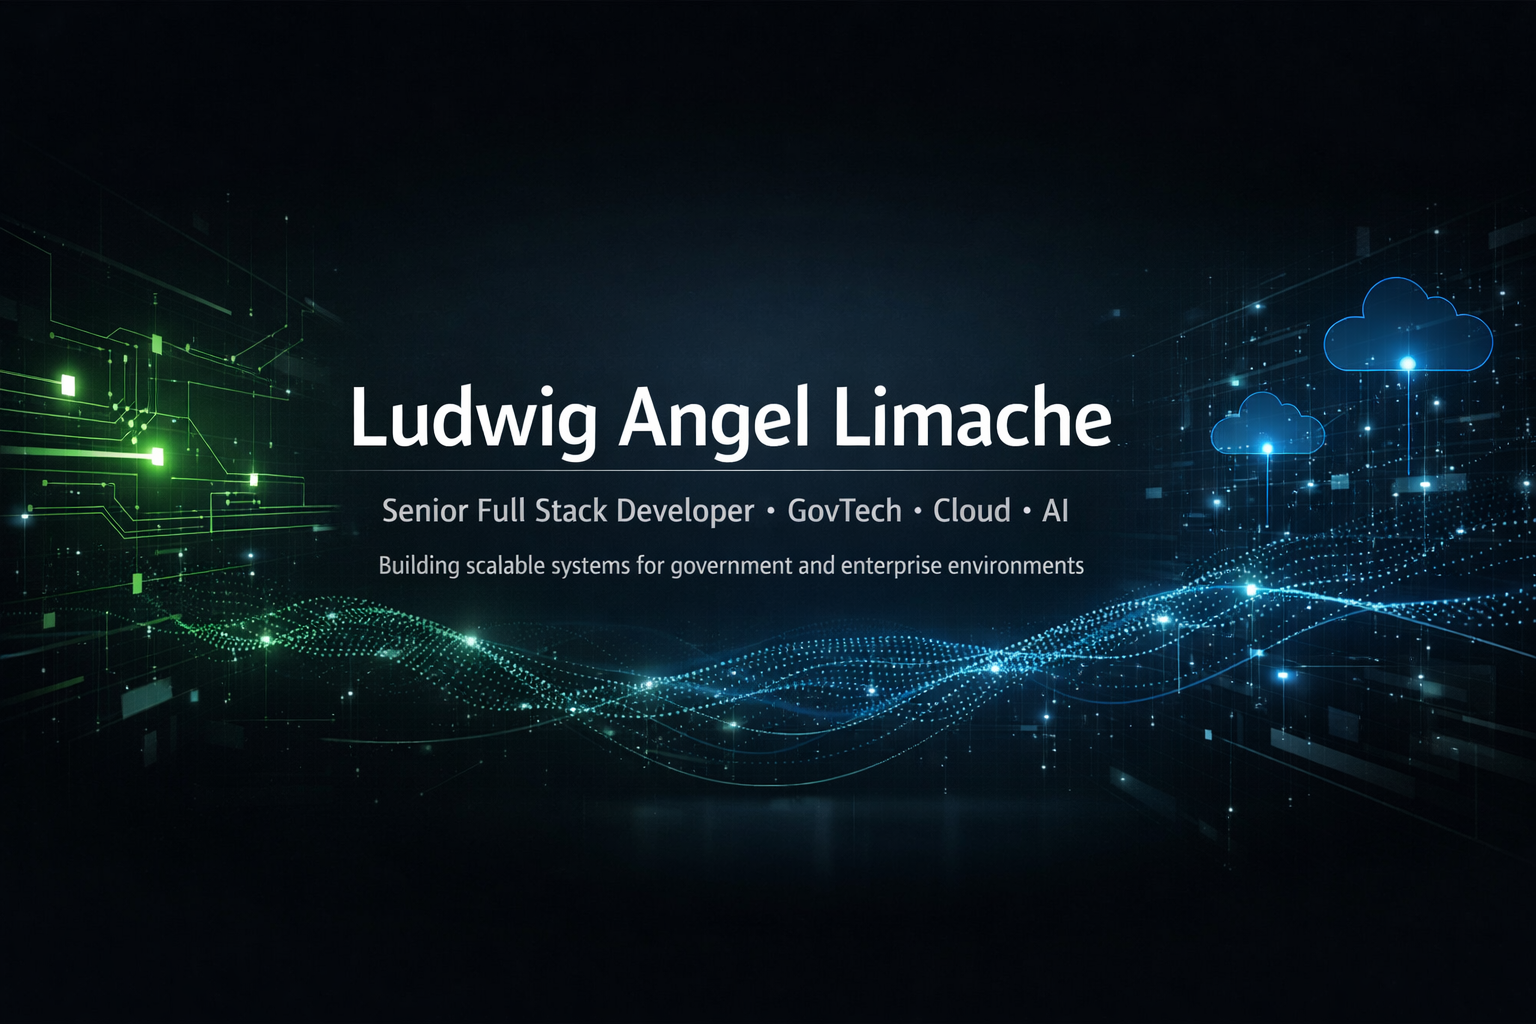
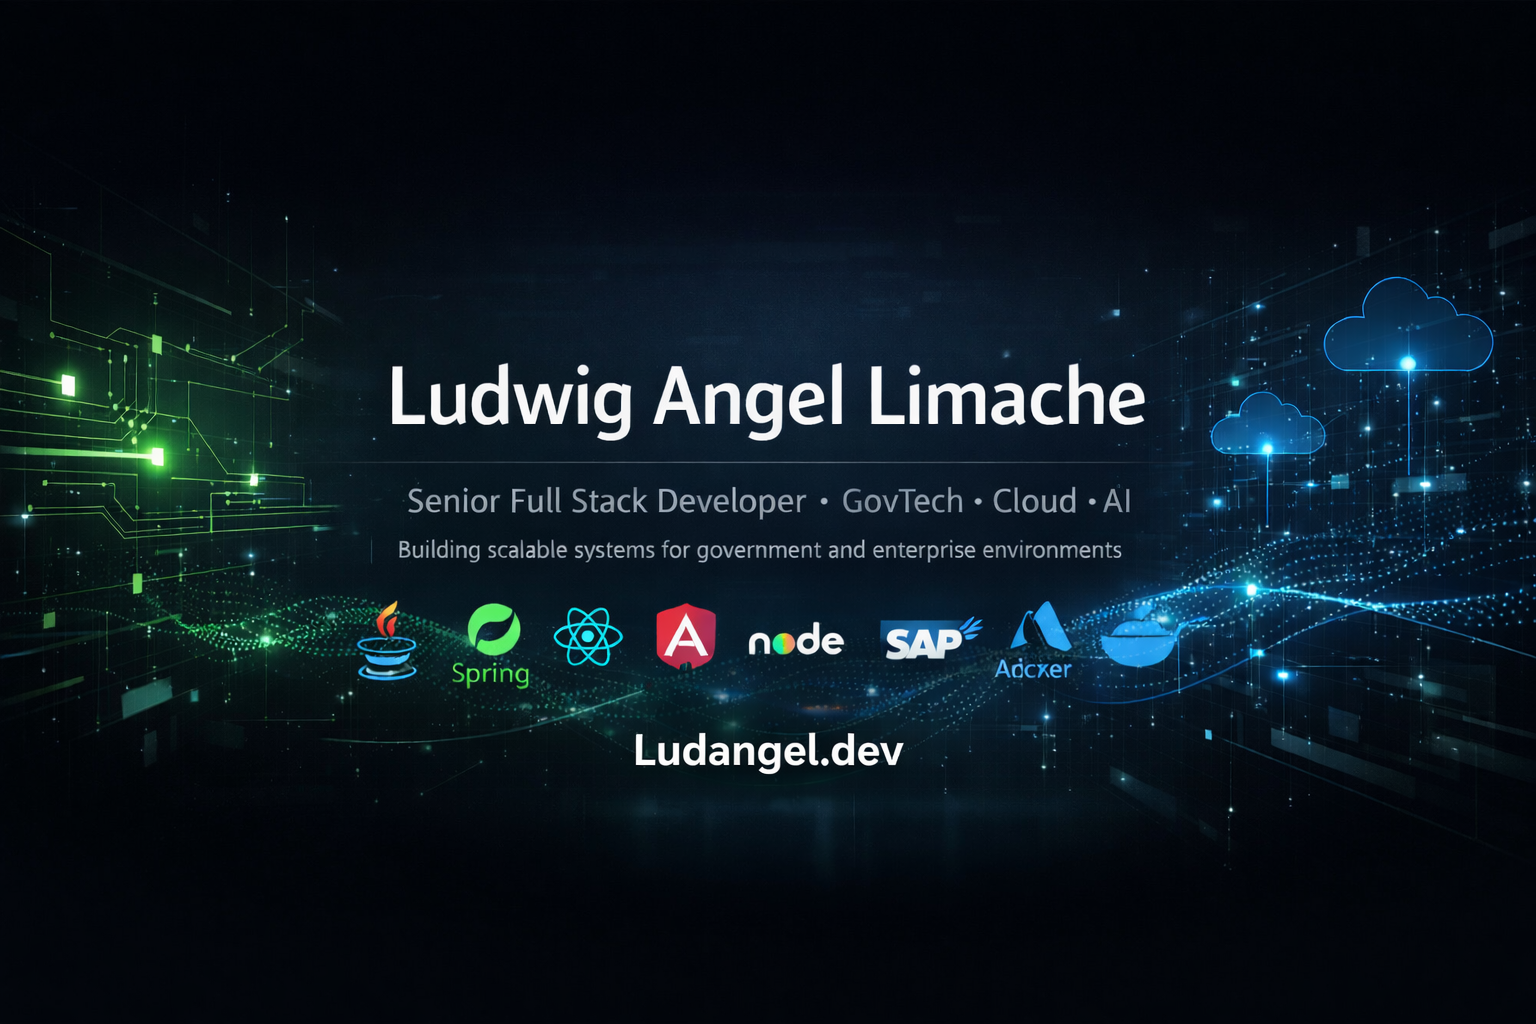
actualizacion

diff --git a/README.md b/README.md
@@ -1,110 +1,217 @@
+<div align="center">
+
+![Header](https://capsule-render.vercel.app/api?type=waving&color=gradient&customColorList=0,2,2,5,30&height=300&section=header&text=Ludwig%20Angel%20Limache&fontSize=50&fontColor=fff&animation=twinkling&fontAlignY=35&desc=Full%20Stack%20Developer%20|%20GovTech%20Engineer%20|%20AI%20Integration&descAlignY=55&descSize=18)
+
+<img src="https://readme-typing-svg.herokuapp.com?font=Orbitron&size=25&duration=3000&pause=1000&color=00F5FF&center=true&vCenter=true&multiline=true&width=600&height=100&lines=Building+Enterprise+Systems;Government+%26+Cloud+Solutions;AI-Powered+Applications;6%2B+Years+of+Impact" alt="Typing SVG" />
+
 <p align="center">
-  <img src="assets/banner.png" alt="Ludwig Angel Banner" width="100%" />
+  <img src="https://img.shields.io/badge/Location-Lima%2C%20Peru-00F5FF?style=for-the-badge&logo=googlemaps&logoColor=white" />
+  <img src="https://img.shields.io/badge/Focus-GovTech%20%26%20Enterprise-FF6B6B?style=for-the-badge&logo=government&logoColor=white" />
+  <img src="https://img.shields.io/badge/Specialization-AI%20Integration-4ECDC4?style=for-the-badge&logo=openai&logoColor=white" />
 </p>
-# Ludwig Angel Limache Mayta
 
-**Senior Full Stack Developer | GovTech Engineer | SAP & Cloud | AI Integration**
-
-📍 Lima, Peru  
-Designing and delivering robust, scalable systems for government and enterprise environments.
+</div>
 
 ---
 
-## About Me
+## <img src="https://media.giphy.com/media/WUlplcMpOCEmTGBtBW/giphy.gif" width="30"> About Me
 
-Senior Software Engineer and SAP Consultant with over 6 years of experience building and maintaining mission-critical systems in production environments, particularly within the public sector. Specialized in designing full-stack architectures using Java, Spring, React, Angular, Oracle, and SAP ecosystems.
+<img align="right" alt="Coding" width="400" src="https://raw.githubusercontent.com/devSouvik/devSouvik/master/gif3.gif">
 
-Currently focused on integrating **Generative AI** (LLMs, NLP, intelligent automation) into real-world systems to optimize decision-making, streamline document-heavy workflows, and modernize legacy government platforms through cloud-native and AI-assisted solutions.
+Senior Software Engineer and SAP Consultant with **6+ years** of experience building and maintaining mission-critical systems in production environments, particularly within the **public sector**. 
 
----
+🔹 **Enterprise Architecture** specialist using Java, Spring, React, Angular, Oracle, and SAP ecosystems  
+🔹 **GovTech Innovation** leader in modernizing legacy government platforms  
+🔹 **AI Integration** expert implementing Generative AI (LLMs, NLP) in real-world systems  
+🔹 **Cloud-Native** solutions architect with Azure and containerized deployments  
 
-## What I Do
+Currently focused on integrating **Generative AI** into production systems to optimize decision-making, streamline document-heavy workflows, and modernize legacy government platforms through intelligent automation.
 
-- **GovTech & Public Sector Platforms**  
-  Architect and develop large-scale systems for agricultural management, regulatory processes, and citizen-facing services.
-
-- **Backend Architecture & APIs**  
-  Design secure, scalable backend services, enterprise integrations, and data-intensive APIs.
-
-- **Full Stack Web Applications**  
-  Deliver end-to-end web solutions with modern frontend frameworks and robust backend foundations.
-
-- **Cloud & DevOps**  
-  Implement Azure-based architectures, containerized deployments, and CI/CD pipelines for reliable production environments.
-
-- **AI-assisted Systems & Automation**  
-  Apply generative AI to intelligent document processing, workflow automation, and decision-support systems.
+<br clear="both"/>
 
 ---
 
-## Tech Stack
+## <img src="https://media.giphy.com/media/iY8CRBdQXODJSCERIr/giphy.gif" width="30"> What I Do
 
-### Backend
-- Java (Spring MVC, Spring Boot)
-- Node.js (Express)
-- Python
+<div align="center">
 
-### Frontend
-- React.js
-- Angular
-- Next.js
+| 🏛 **GovTech & Public Sector** | 🔧 **Backend Architecture** | 🌐 **Full Stack Development** |
+|:---:|:---:|:---:|
+| Large-scale government systems | Secure, scalable APIs | End-to-end web solutions |
+| Agricultural management platforms | Enterprise integrations | Modern frontend frameworks |
+| Citizen-facing services | Data-intensive workflows | Responsive design |
 
-### Databases
-- Oracle 11g / PL-SQL
-- PostgreSQL
-- MySQL
+| ☁ **Cloud & DevOps** | 🤖 **AI-Assisted Systems** |
+|:---:|:---:|
+| Azure-based architectures | Generative AI integration |
+| Containerized deployments | Intelligent document processing |
+| CI/CD pipelines | Workflow automation |
 
-### Enterprise / Cloud
-- SAP ERP
-- SAP BTP
-- SAP Fiori
-- Microsoft Azure
-- Docker
-- Git / GitHub
-
-### AI & Data
-- Azure OpenAI
-- Natural Language Processing (NLP)
-- Intelligent Document Processing
-- Generative AI integration in enterprise systems
+</div>
 
 ---
 
-## Featured Projects
+## <img src="https://media.giphy.com/media/QssGEmpkyEOhBCb7e1/giphy.gif" width="25"> Tech Stack
 
-### SICPO / SIGPO
-Core government agricultural management platforms supporting Peru’s public sector. Designed and developed systems for farmer registration, crop monitoring, certification workflows, and agricultural data management using Java Spring Boot, Oracle databases, and Angular-based frontends.
+<div align="center">
 
-### Material Genético Dashboard
-Enterprise-grade dashboard for tracking and compliance of genetic material within regulated agricultural processes. Implemented real-time reporting, analytics, and RESTful integrations using React.js and backend APIs.
+### 🔥 Backend Technologies
+<p>
+  <img src="https://skillicons.dev/icons?i=java,spring,nodejs,express,python&theme=dark" />
+</p>
 
-### SmartRetail / SmartProvider
-Cloud-based B2B platforms for inventory management, electronic invoicing, supplier integration, and automated procurement workflows, integrating SAP services and government tax systems.
+### 🎨 Frontend Technologies  
+<p>
+  <img src="https://skillicons.dev/icons?i=react,angular,nextjs,html,css,js,typescript&theme=dark" />
+</p>
 
-### GovAbleHackMicrosoft
-Accessibility-focused GovTech prototype developed during a Microsoft Hackathon. Designed inclusive digital services for citizens with disabilities, leveraging Azure AI services and responsive web design principles.
+### 🗄 Databases
+<p>
+  <img src="https://skillicons.dev/icons?i=oracle,postgresql,mysql&theme=dark" />
+</p>
+
+### ☁ Enterprise & Cloud
+<p>
+  <img src="https://skillicons.dev/icons?i=azure,docker,git,github&theme=dark" />
+  <img src="https://img.shields.io/badge/SAP-0FAAFF?style=for-the-badge&logo=sap&logoColor=white" />
+  <img src="https://img.shields.io/badge/SAP%20BTP-0FAAFF?style=for-the-badge&logo=sap&logoColor=white" />
+  <img src="https://img.shields.io/badge/SAP%20Fiori-0FAAFF?style=for-the-badge&logo=sap&logoColor=white" />
+</p>
+
+### 🤖 AI & Data
+<p>
+  <img src="https://img.shields.io/badge/Azure%20OpenAI-412991?style=for-the-badge&logo=openai&logoColor=white" />
+  <img src="https://img.shields.io/badge/NLP-FF6B6B?style=for-the-badge&logo=python&logoColor=white" />
+  <img src="https://img.shields.io/badge/Generative%20AI-4ECDC4?style=for-the-badge&logo=openai&logoColor=white" />
+  <img src="https://img.shields.io/badge/Document%20Processing-45B7D1?style=for-the-badge&logo=adobe&logoColor=white" />
+</p>
+
+</div>
 
 ---
 
-## Certifications & Continuous Learning
+## <img src="https://media.giphy.com/media/LnQjpWaON8nhr21vNW/giphy.gif" width="30"> Featured Projects
 
-- Microsoft Certified: **Azure AI Fundamentals**
-- **Azure AI-102** – Designing and Implementing AI Solutions
-- Generative AI programs (Microsoft, SAP, Google)
-- DevOps & Cloud Engineering Bootcamps
-- UML & Enterprise Software Modeling
+<div align="center">
+
+<table>
+<tr>
+<td width="50%">
+
+### 🏛 SICPO / SIGPO
+**Government Agricultural Systems**
+
+Core platforms supporting Peru's Ministry of Agriculture with farmer registration, crop monitoring, and certification workflows.
+
+**Tech:** `Java Spring Boot` `Oracle` `Angular`
+
+</td>
+<td width="50%">
+
+### 📊 Material Genético Dashboard  
+**Enterprise Analytics Platform**
+
+Real-time dashboard for genetic material tracking and compliance in regulated agricultural processes.
+
+**Tech:** `React.js` `RESTful APIs` `Analytics`
+
+</td>
+</tr>
+<tr>
+<td width="50%">
+
+### 🛒 SmartRetail / SmartProvider
+**B2B Commerce Platforms**
+
+Cloud-based inventory management with supplier integration and automated procurement workflows.
+
+**Tech:** `Full-Stack JS` `SAP Integration` `Cloud`
+
+</td>
+<td width="50%">
+
+### ♿ GovAbleHackMicrosoft
+**Accessibility GovTech**
+
+Inclusive digital services prototype for citizens with disabilities, developed during Microsoft Hackathon.
+
+**Tech:** `Azure AI` `Responsive Design` `Accessibility`
+
+</td>
+</tr>
+</table>
+
+</div>
 
 ---
 
-## GitHub Stats
+## <img src="https://media.giphy.com/media/j2pOGeGYKe2xCCKwfi/giphy.gif" width="30"> Certifications & Learning
 
-![GitHub Stats](https://github-readme-stats.vercel.app/api?username=LudwigAngel&show_icons=true&theme=tokyonight)
-![Top Languages](https://github-readme-stats.vercel.app/api/top-langs/?username=LudwigAngel&layout=compact&theme=tokyonight)
+<div align="center">
+
+<img src="https://img.shields.io/badge/Microsoft%20Certified-Azure%20AI%20Fundamentals-0078D4?style=for-the-badge&logo=microsoft&logoColor=white" />
+<img src="https://img.shields.io/badge/Azure%20AI--102-Designing%20AI%20Solutions-0078D4?style=for-the-badge&logo=microsoft&logoColor=white" />
+
+<img src="https://img.shields.io/badge/Generative%20AI-Microsoft%20|%20SAP%20|%20Google-FF6B6B?style=for-the-badge&logo=openai&logoColor=white" />
+<img src="https://img.shields.io/badge/DevOps%20%26%20Cloud-Engineering%20Bootcamps-4ECDC4?style=for-the-badge&logo=docker&logoColor=white" />
+
+<img src="https://img.shields.io/badge/UML%20%26%20Modeling-Enterprise%20Architecture-45B7D1?style=for-the-badge&logo=uml&logoColor=white" />
+
+</div>
 
 ---
 
-## Connect
+## <img src="https://media.giphy.com/media/W5eoZHPpUx9sapR0eu/giphy.gif" width="30"> GitHub Analytics
 
-[![LinkedIn](https://img.shields.io/badge/LinkedIn-0077B5?style=for-the-badge&logo=linkedin&logoColor=white)](https://www.linkedin.com/in/ludwig-angellimache/)
+<div align="center">
 
-Open to collaboration on **GovTech modernization, AI-driven systems, and enterprise cloud solutions**.
+<img height="180em" src="https://github-readme-stats-eight-theta.vercel.app/api?username=LudwigAngel&show_icons=true&theme=algolia&include_all_commits=true&count_private=true"/>
+<img height="180em" src="https://github-readme-stats-eight-theta.vercel.app/api/top-langs/?username=LudwigAngel&layout=compact&langs_count=8&theme=algolia"/>
+
+</div>
+
+<div align="center">
+
+<img src="https://github-readme-streak-stats.herokuapp.com/?user=LudwigAngel&theme=algolia" alt="LudwigAngel" />
+
+</div>
+
+<div align="center">
+
+<img src="https://github-profile-trophy.vercel.app/?username=LudwigAngel&theme=algolia&no-frame=false&no-bg=false&margin-w=4" />
+
+</div>
+
+---
+
+## <img src="https://media.giphy.com/media/LnQjpWaON8nhr21vNW/giphy.gif" width="25"> Activity Graph
+
+<div align="center">
+
+<img src="https://github-readme-activity-graph.vercel.app/graph?username=LudwigAngel&theme=react-dark&bg_color=20232a&hide_border=true" width="100%"/>
+
+</div>
+
+---
+
+## <img src="https://media.giphy.com/media/Q7LHmoFwVP6Yc1swZs/giphy.gif" width="25"> Connect & Collaborate
+
+<div align="center">
+
+<a href="https://www.linkedin.com/in/ludwig-angellimache/">
+  <img src="https://img.shields.io/badge/LinkedIn-0077B5?style=for-the-badge&logo=linkedin&logoColor=white" />
+</a>
+
+<br><br>
+
+<img src="https://readme-typing-svg.herokuapp.com?font=Orbitron&size=20&duration=3000&pause=1000&color=00F5FF&center=true&vCenter=true&width=600&lines=Open+to+GovTech+Modernization+Projects;AI-Driven+Enterprise+Solutions;Cloud+Architecture+Collaborations;Let's+Build+the+Future+Together!" alt="Collaboration" />
+
+</div>
+
+---
+
+<div align="center">
+
+![Footer](https://capsule-render.vercel.app/api?type=waving&color=gradient&customColorList=0,2,2,5,30&height=100&section=footer)
+
+</div>
